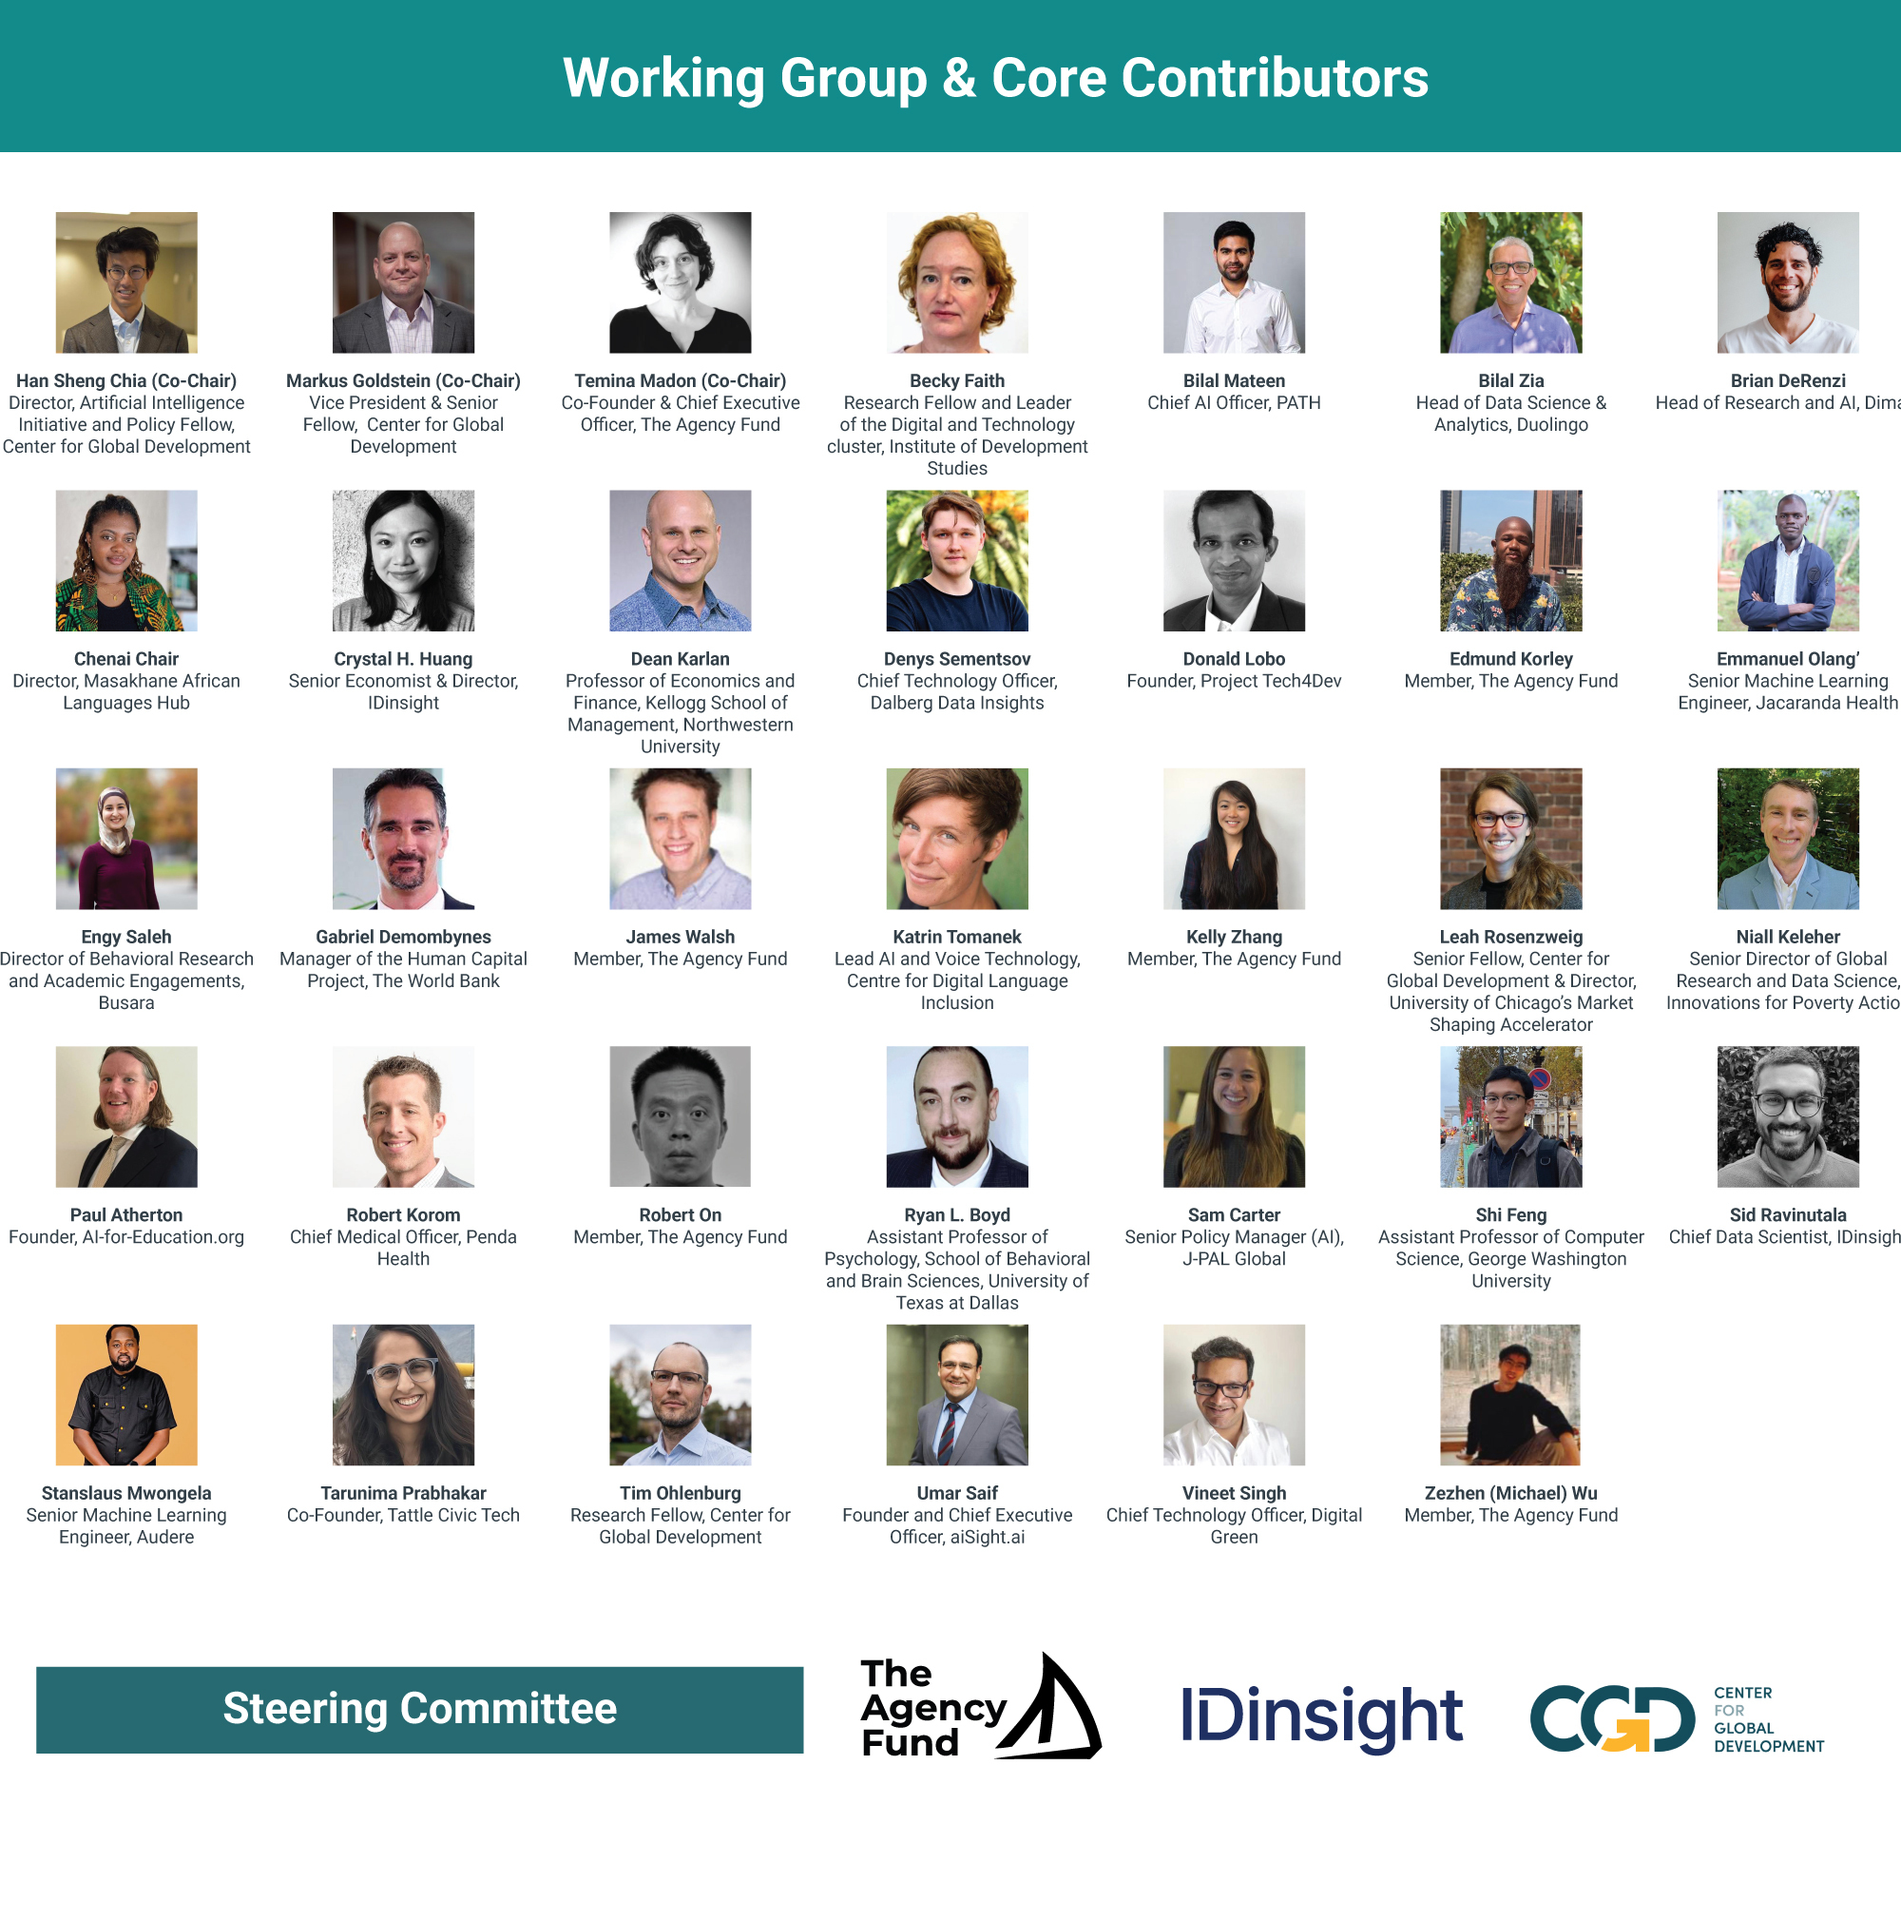
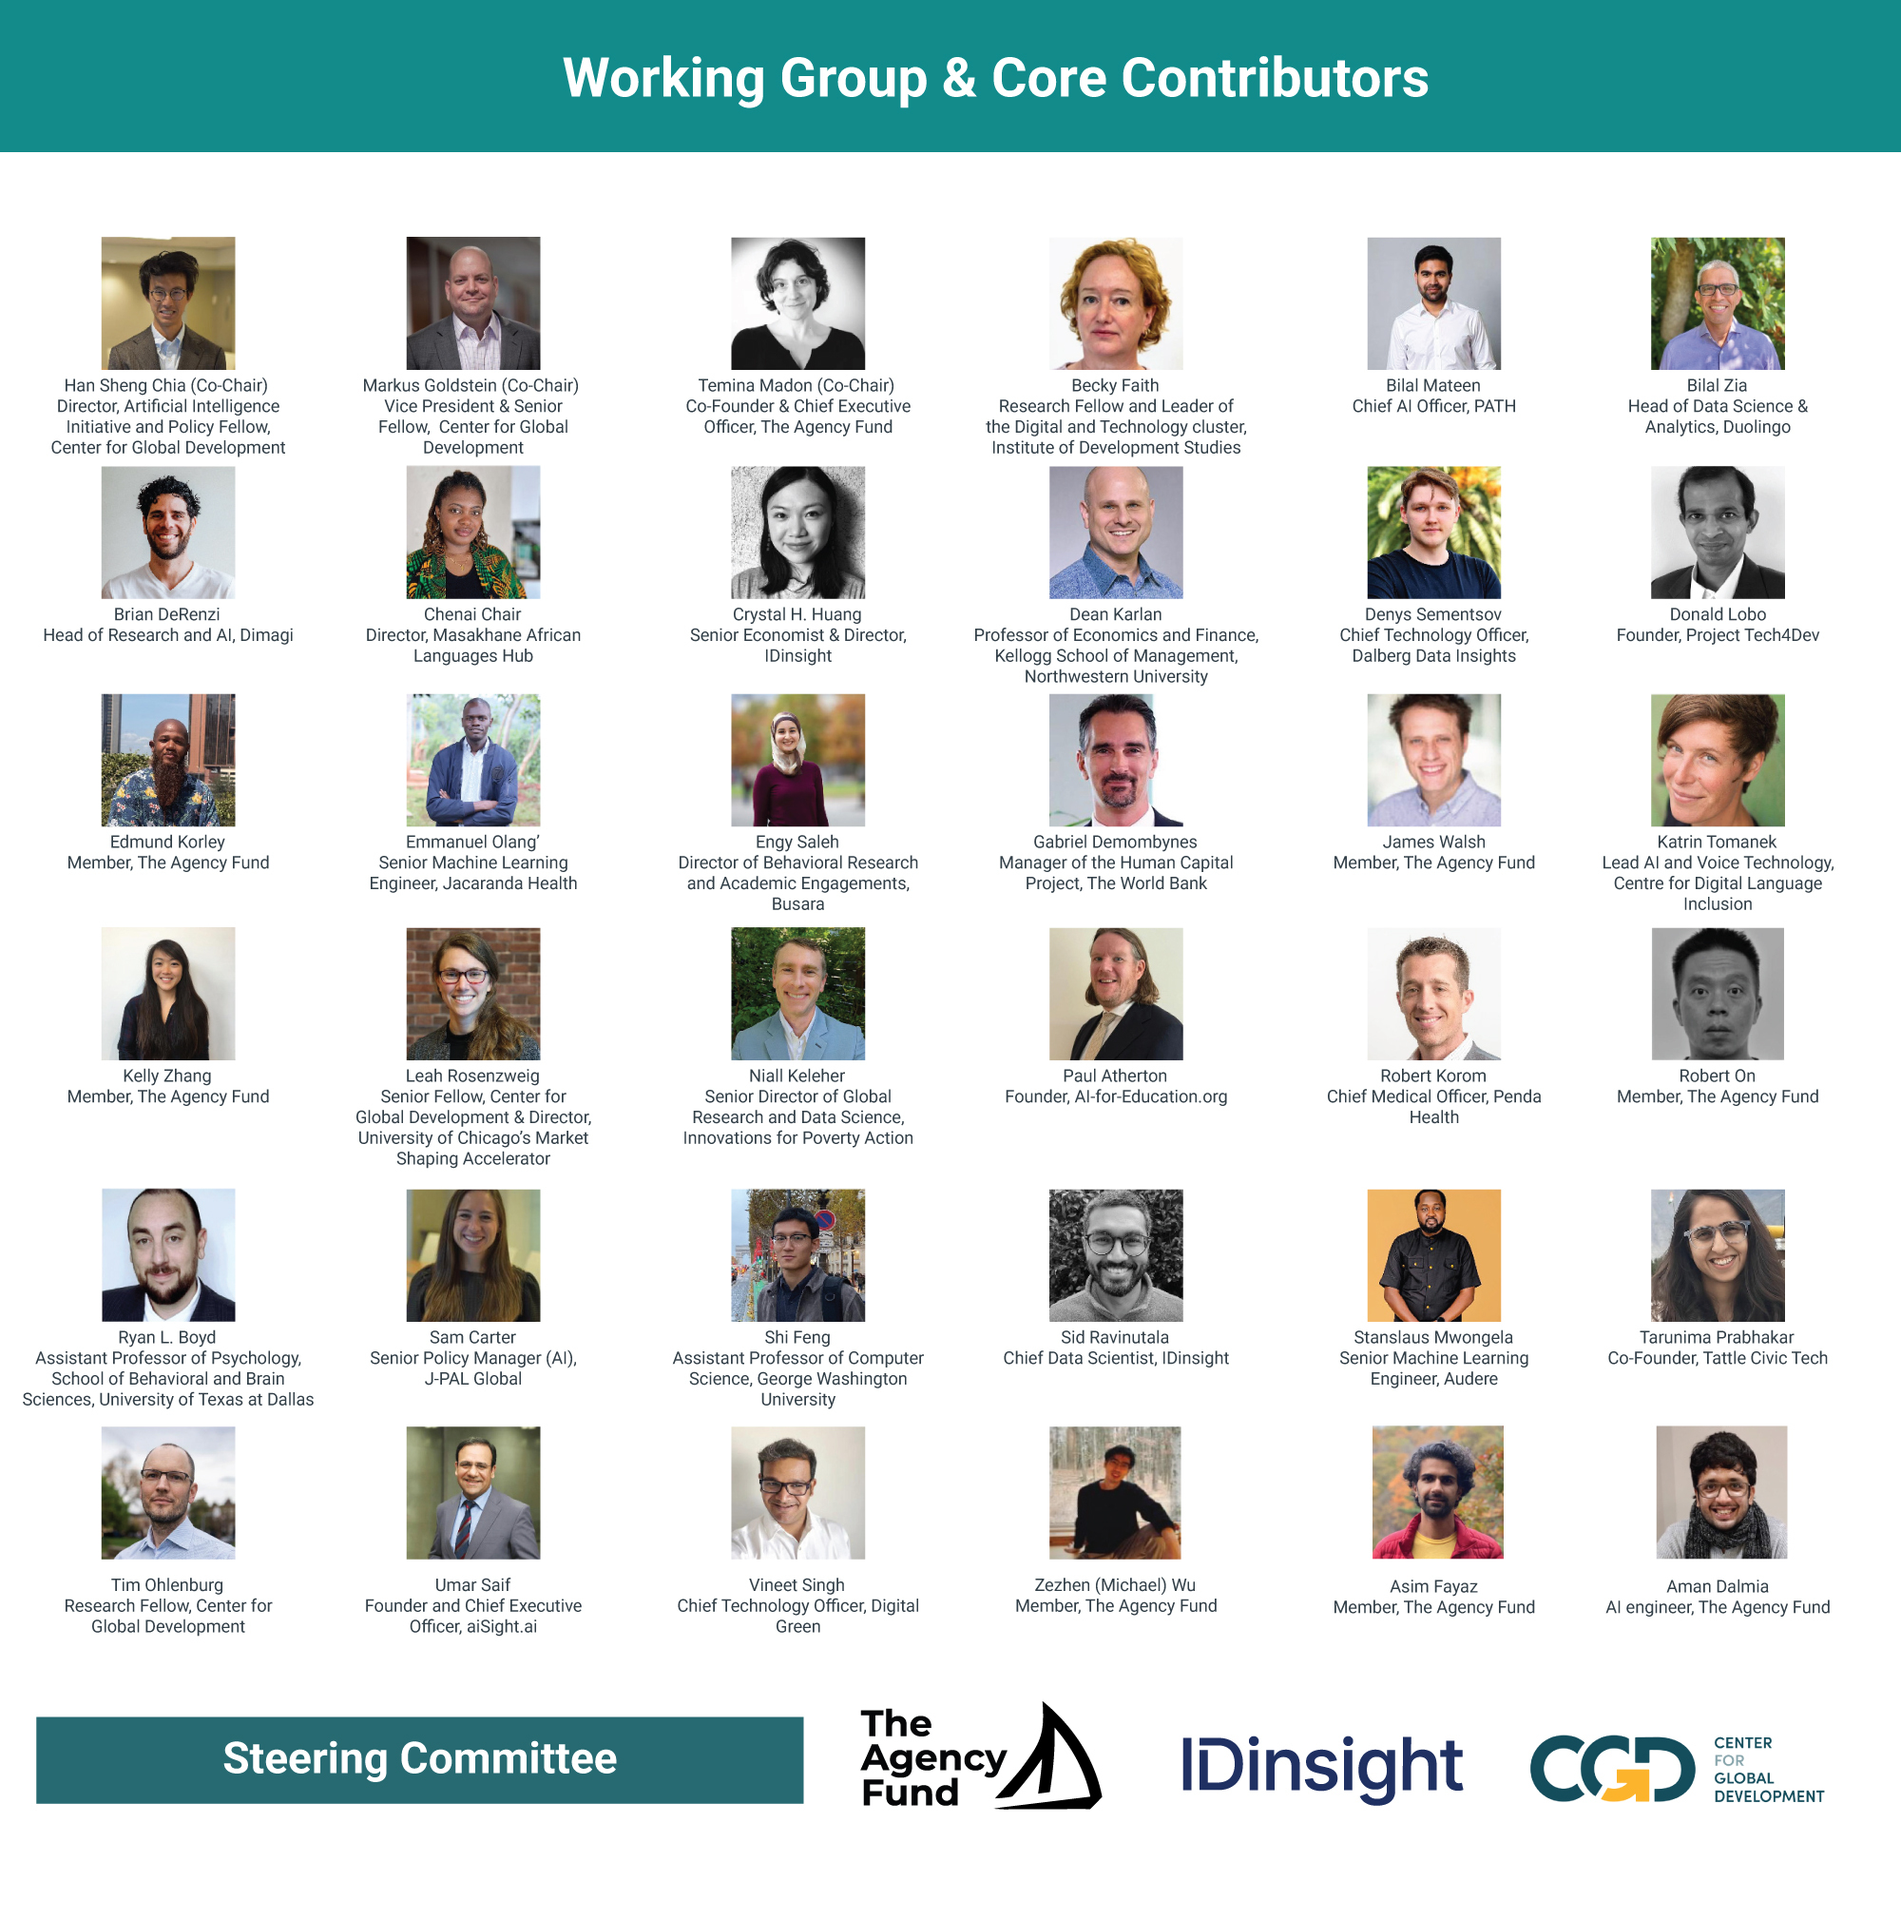
Update working group (#4)
* Update the-process-behind-this-playbook.md

* Update working group image

diff --git a/overview/the-process-behind-this-playbook.md b/overview/the-process-behind-this-playbook.md
@@ -45,16 +45,12 @@ Note: The version Working Group Members first published in March 2026 can be fou
 
 {% columns %}
 {% column %}
-Asim Fayaz, The Agency Fund
-
-Aman Dalmia, The Agency Fund
+Suzin You, IDinsight
 
 Isha Fuletra, IDinsight
 {% endcolumn %}
 
 {% column %}
-Suzin You, IDinsight
-
 Yolanda Yang, CGD
 {% endcolumn %}
 {% endcolumns %}
